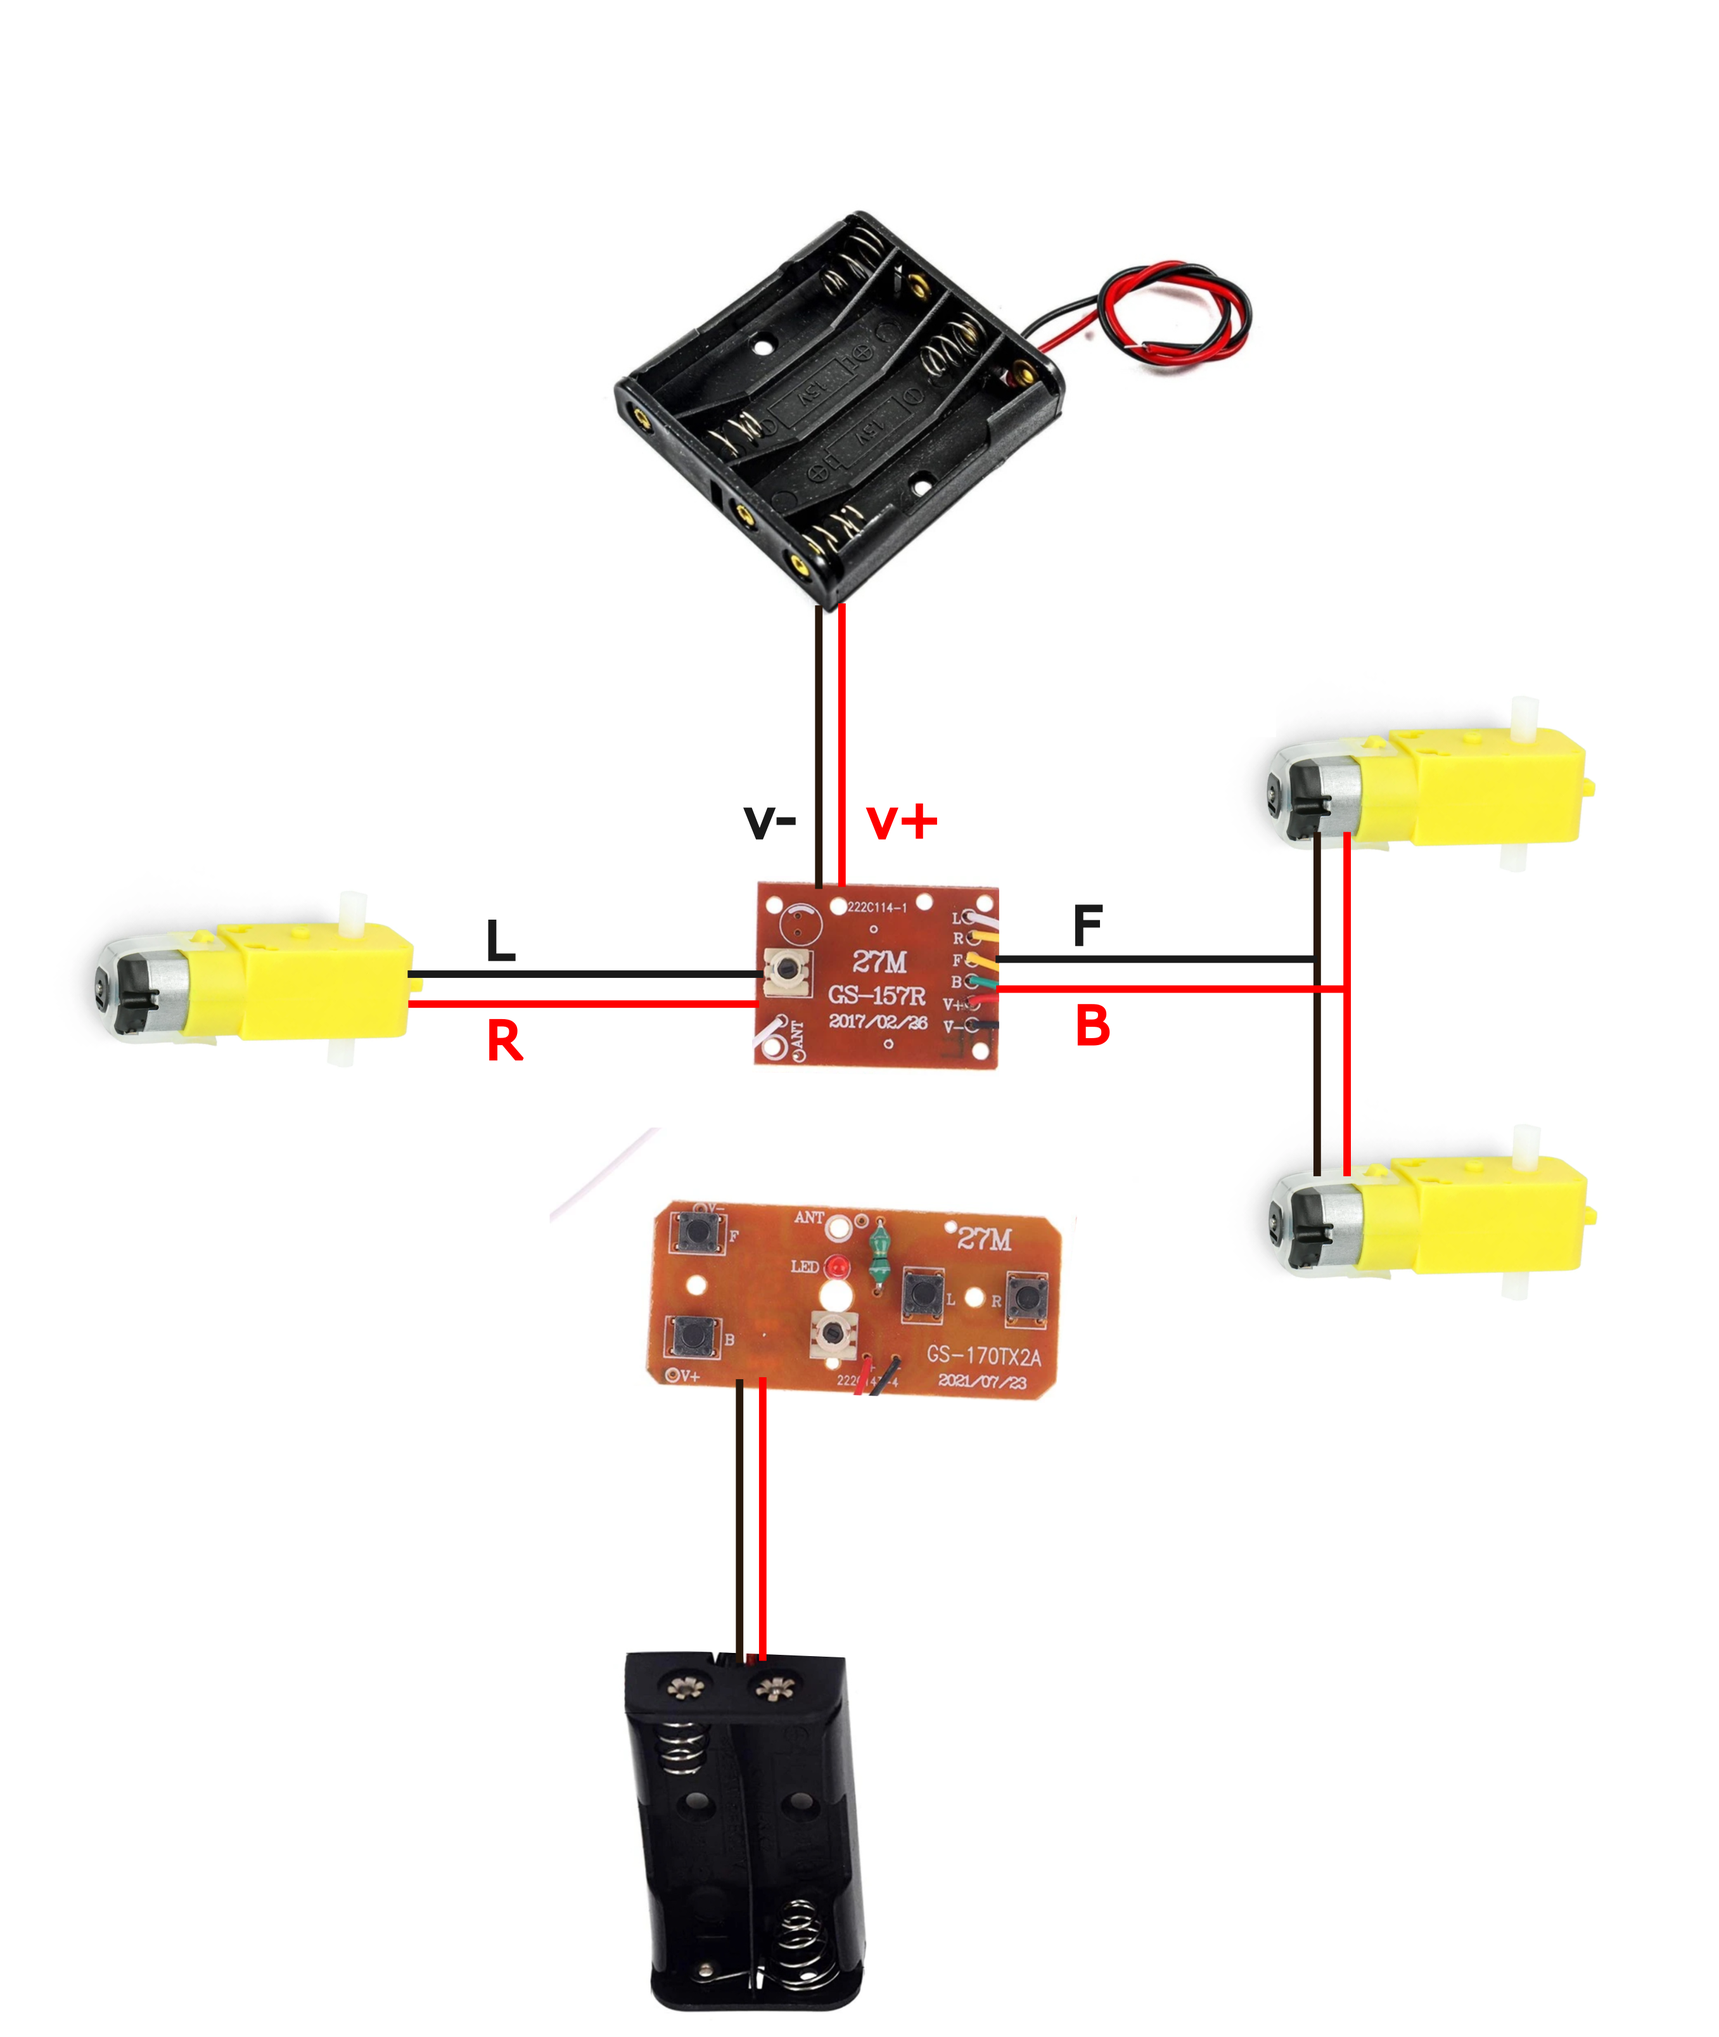
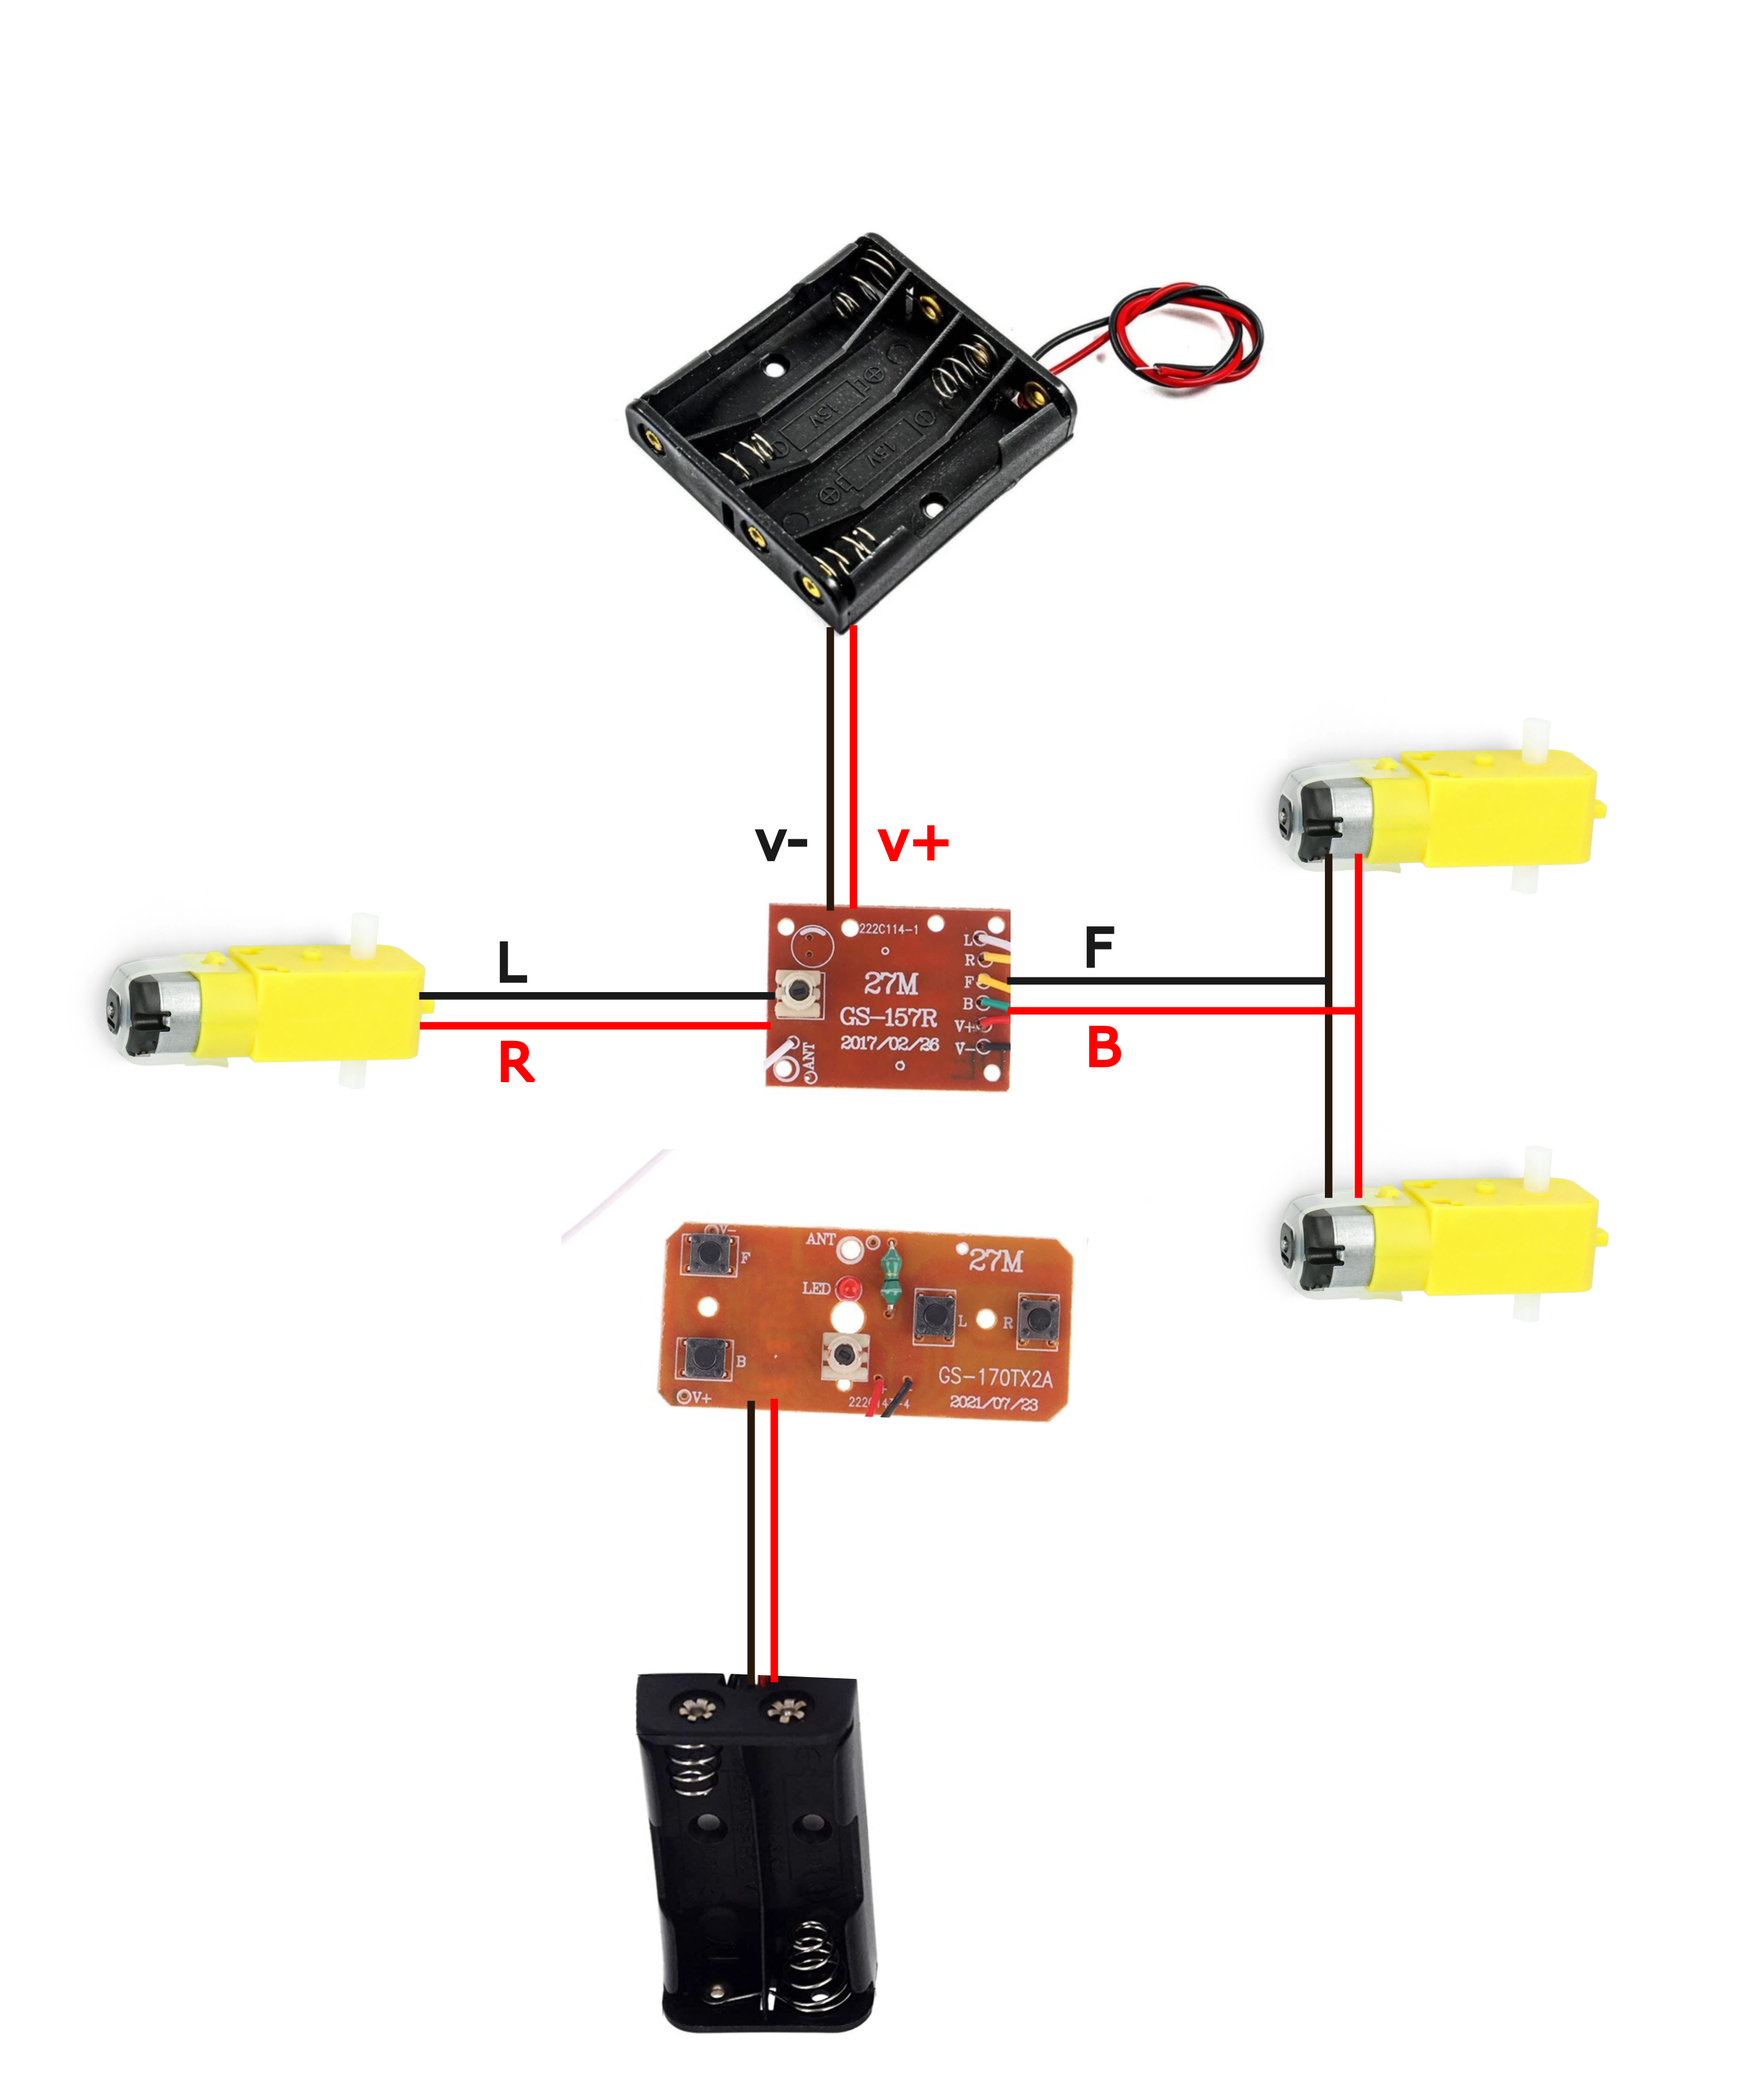
++ - kamangir/bolt#746 - no-workflow 🪄

diff --git a/bluer_ugv/__init__.py b/bluer_ugv/__init__.py
@@ -4,7 +4,7 @@ ICON = "🐬"
 
 DESCRIPTION = f"{ICON} AI x ROS."
 
-VERSION = "6.634.1"
+VERSION = "6.635.1"
 
 REPO_NAME = "bluer-ugv"
 

diff --git a/README.md b/README.md
@@ -24,5 +24,5 @@ pip install bluer_ugv
 
 [![pylint](https://github.com/kamangir/bluer-ugv/actions/workflows/pylint.yml/badge.svg)](https://github.com/kamangir/bluer-ugv/actions/workflows/pylint.yml) [![pytest](https://github.com/kamangir/bluer-ugv/actions/workflows/pytest.yml/badge.svg)](https://github.com/kamangir/bluer-ugv/actions/workflows/pytest.yml) [![bashtest](https://github.com/kamangir/bluer-ugv/actions/workflows/bashtest.yml/badge.svg)](https://github.com/kamangir/bluer-ugv/actions/workflows/bashtest.yml) [![PyPI version](https://img.shields.io/pypi/v/bluer-ugv.svg)](https://pypi.org/project/bluer-ugv/) [![PyPI - Downloads](https://img.shields.io/pypi/dd/bluer-ugv)](https://pypistats.org/packages/bluer-ugv)
 
-built by 🌀 [`bluer README`](https://github.com/kamangir/bluer-objects/tree/main/bluer_objects/README), based on 🐬 [`bluer_ugv-6.634.1`](https://github.com/kamangir/bluer-ugv).
+built by 🌀 [`bluer README`](https://github.com/kamangir/bluer-objects/tree/main/bluer_objects/README), based on 🐬 [`bluer_ugv-6.635.1`](https://github.com/kamangir/bluer-ugv).
 
